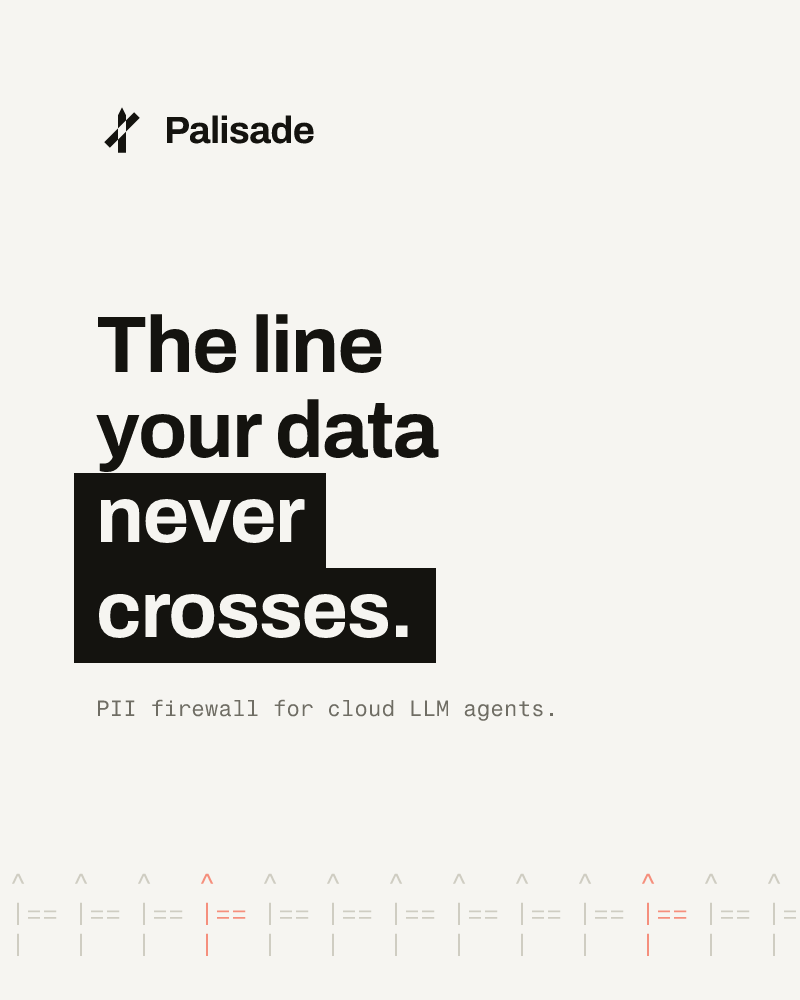
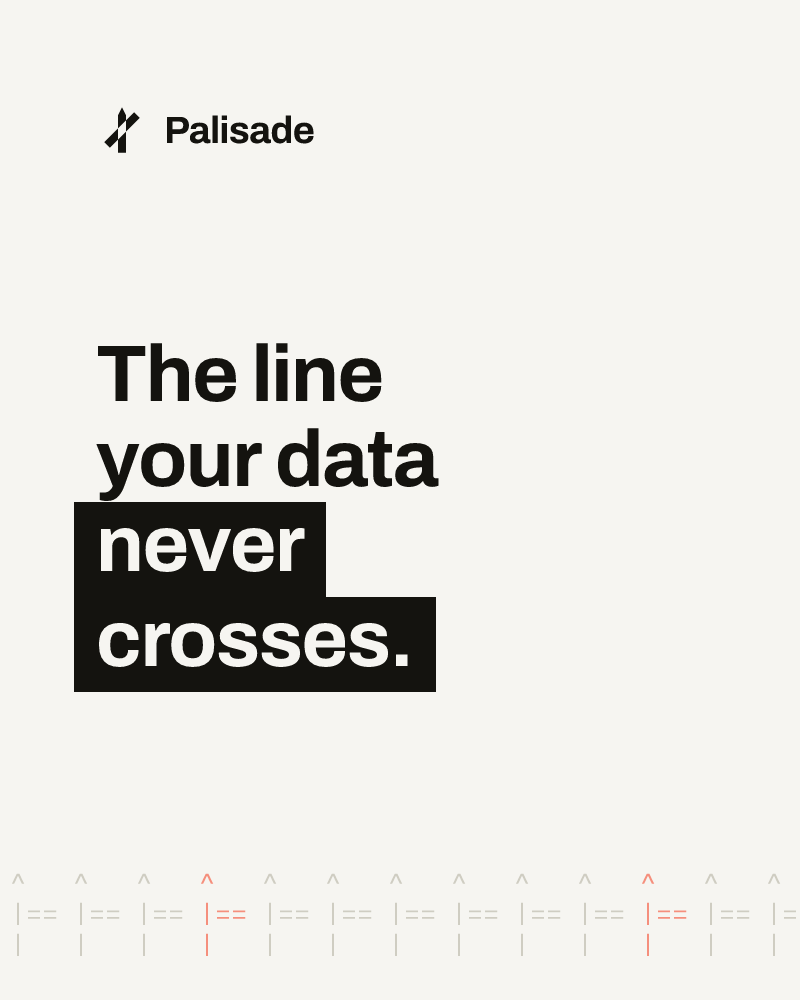
Fade coming-soon cards in place and trim card copy
The coming-soon fields now dissolve in place on hover instead of
drifting up, and their label and the caption marker use the same
opacity-and-blur fade as the rest of the site. Drop the SRAM
expansion and the subtitle under Palisade's headline.

Claude-Session: https://claude.ai/code/session_01YDLerfkAWSgbHJ53orgGGs

Changed region(s): [[0.0938, 0.31, 0.5625, 0.713], [0.5938, 0.682, 0.6562, 0.713]]

diff --git a/components/ProjectCard.tsx b/components/ProjectCard.tsx
@@ -20,7 +20,6 @@ export type Project = {
   name: string;
   href?: string;
   image?: string;
-  note?: string;
 };
 
 // The page paper under the tile's 2.5% black wash.
@@ -214,12 +213,11 @@ function useCardCanvas({
         const keep = tone - cell.scatter * 0.85;
         if (keep <= 0.2) continue;
         const arrive = smooth((intro * 1.3 - (xn * 0.55 + cell.scatter * 0.45)) / 0.3);
-        const order = (1 - yn) * 0.45 + cell.scatter * 0.55;
-        const gone = smooth((strength * 1.35 - order) / 0.35);
+        const gone = smooth((strength * 1.3 - (xn * 0.45 + cell.scatter * 0.55)) / 0.3);
         const alpha = Math.min(0.55, (keep - 0.2) * 1.1) * arrive * (1 - gone);
         const char =
           keep > 0.55 ? flickerGlyph(tone, cell.seed >>> 8, phase) : keep > 0.38 ? ":" : ".";
-        glyph(char, col * cw, row * ch - gone * ch * 3, alpha);
+        glyph(char, col * cw, row * ch, alpha);
       }
       ctx.globalAlpha = 1;
     };
@@ -351,19 +349,13 @@ export default function ProjectCard({ project, delay }: { project: Project; dela
         />
         {field && (
           <span
-            className="absolute inset-0 flex flex-col items-center justify-center text-[13px] tracking-[0.01em] text-muted [transition-property:opacity,filter,translate] duration-500 ease-out"
+            className="absolute inset-0 flex items-center justify-center text-[13px] tracking-[0.01em] text-muted [transition-property:opacity,filter] duration-[800ms] ease-[cubic-bezier(0.22,1,0.36,1)]"
             style={{
               opacity: over ? 1 : 0,
-              filter: over ? "blur(0px)" : "blur(4px)",
-              translate: over ? "0 0" : "0 4px",
+              filter: over ? "blur(0px)" : "blur(6px)",
             }}
           >
             Coming soon
-            {project.note && (
-              <span className="mt-1 max-w-[85%] text-center text-[12px] leading-snug text-faint">
-                {project.note}
-              </span>
-            )}
           </span>
         )}
       </motion.div>
@@ -376,10 +368,10 @@ export default function ProjectCard({ project, delay }: { project: Project; dela
         <span className={field ? "text-muted" : "text-ink"}>{project.name}</span>
         <span
           aria-hidden
-          className="text-muted [transition-property:opacity,translate] duration-300 ease-out"
+          className="text-muted [transition-property:opacity,filter] duration-[800ms] ease-[cubic-bezier(0.22,1,0.36,1)]"
           style={{
             opacity: over ? 1 : 0,
-            translate: over ? "0 0" : "-4px 4px",
+            filter: over ? "blur(0px)" : "blur(6px)",
           }}
         >
           {project.href ? "↗" : "Soon"}

diff --git a/scripts/generate-cards.tsx b/scripts/generate-cards.tsx
@@ -135,7 +135,6 @@ await render(
 const PALISADE = {
   bg: "#f6f5f1",
   ink: "#14130f",
-  muted: "#6f6d64",
   picket: "#cfcdc2",
   accent: "rgba(244, 60, 30, 0.55)",
   mark: "M 200,25 L 230,85 L 230,375 L 170,375 L 170,85 Z M 63.786797,293.786797 L 293.786797,63.786797 L 336.213203,106.213203 L 106.213203,336.213203 Z",
@@ -189,7 +188,6 @@ await render(
         flexGrow: 1,
         justifyContent: "center",
         padding: "0 96px",
-        gap: 32,
       }}
     >
       <div
@@ -208,9 +206,6 @@ await render(
         <Highlight>never</Highlight>
         <Highlight>crosses.</Highlight>
       </div>
-      <span style={{ fontFamily: "Fragment Mono", fontSize: 22, color: PALISADE.muted }}>
-        PII firewall for cloud LLM agents.
-      </span>
     </div>
     <div
       style={{

diff --git a/components/Projects.tsx b/components/Projects.tsx
@@ -7,7 +7,7 @@ const PROJECTS: Project[] = [
   { name: "Neptune", href: "https://neptune.rip", image: "/projects/neptune.png" },
   { name: "Palisade", href: "https://palisade.rocks", image: "/projects/palisade.png" },
   { name: "Evanescent" },
-  { name: "SRAM", note: "Self-Reorganizing Autonomous Machines" },
+  { name: "SRAM" },
 ];
 
 export default function Projects() {
